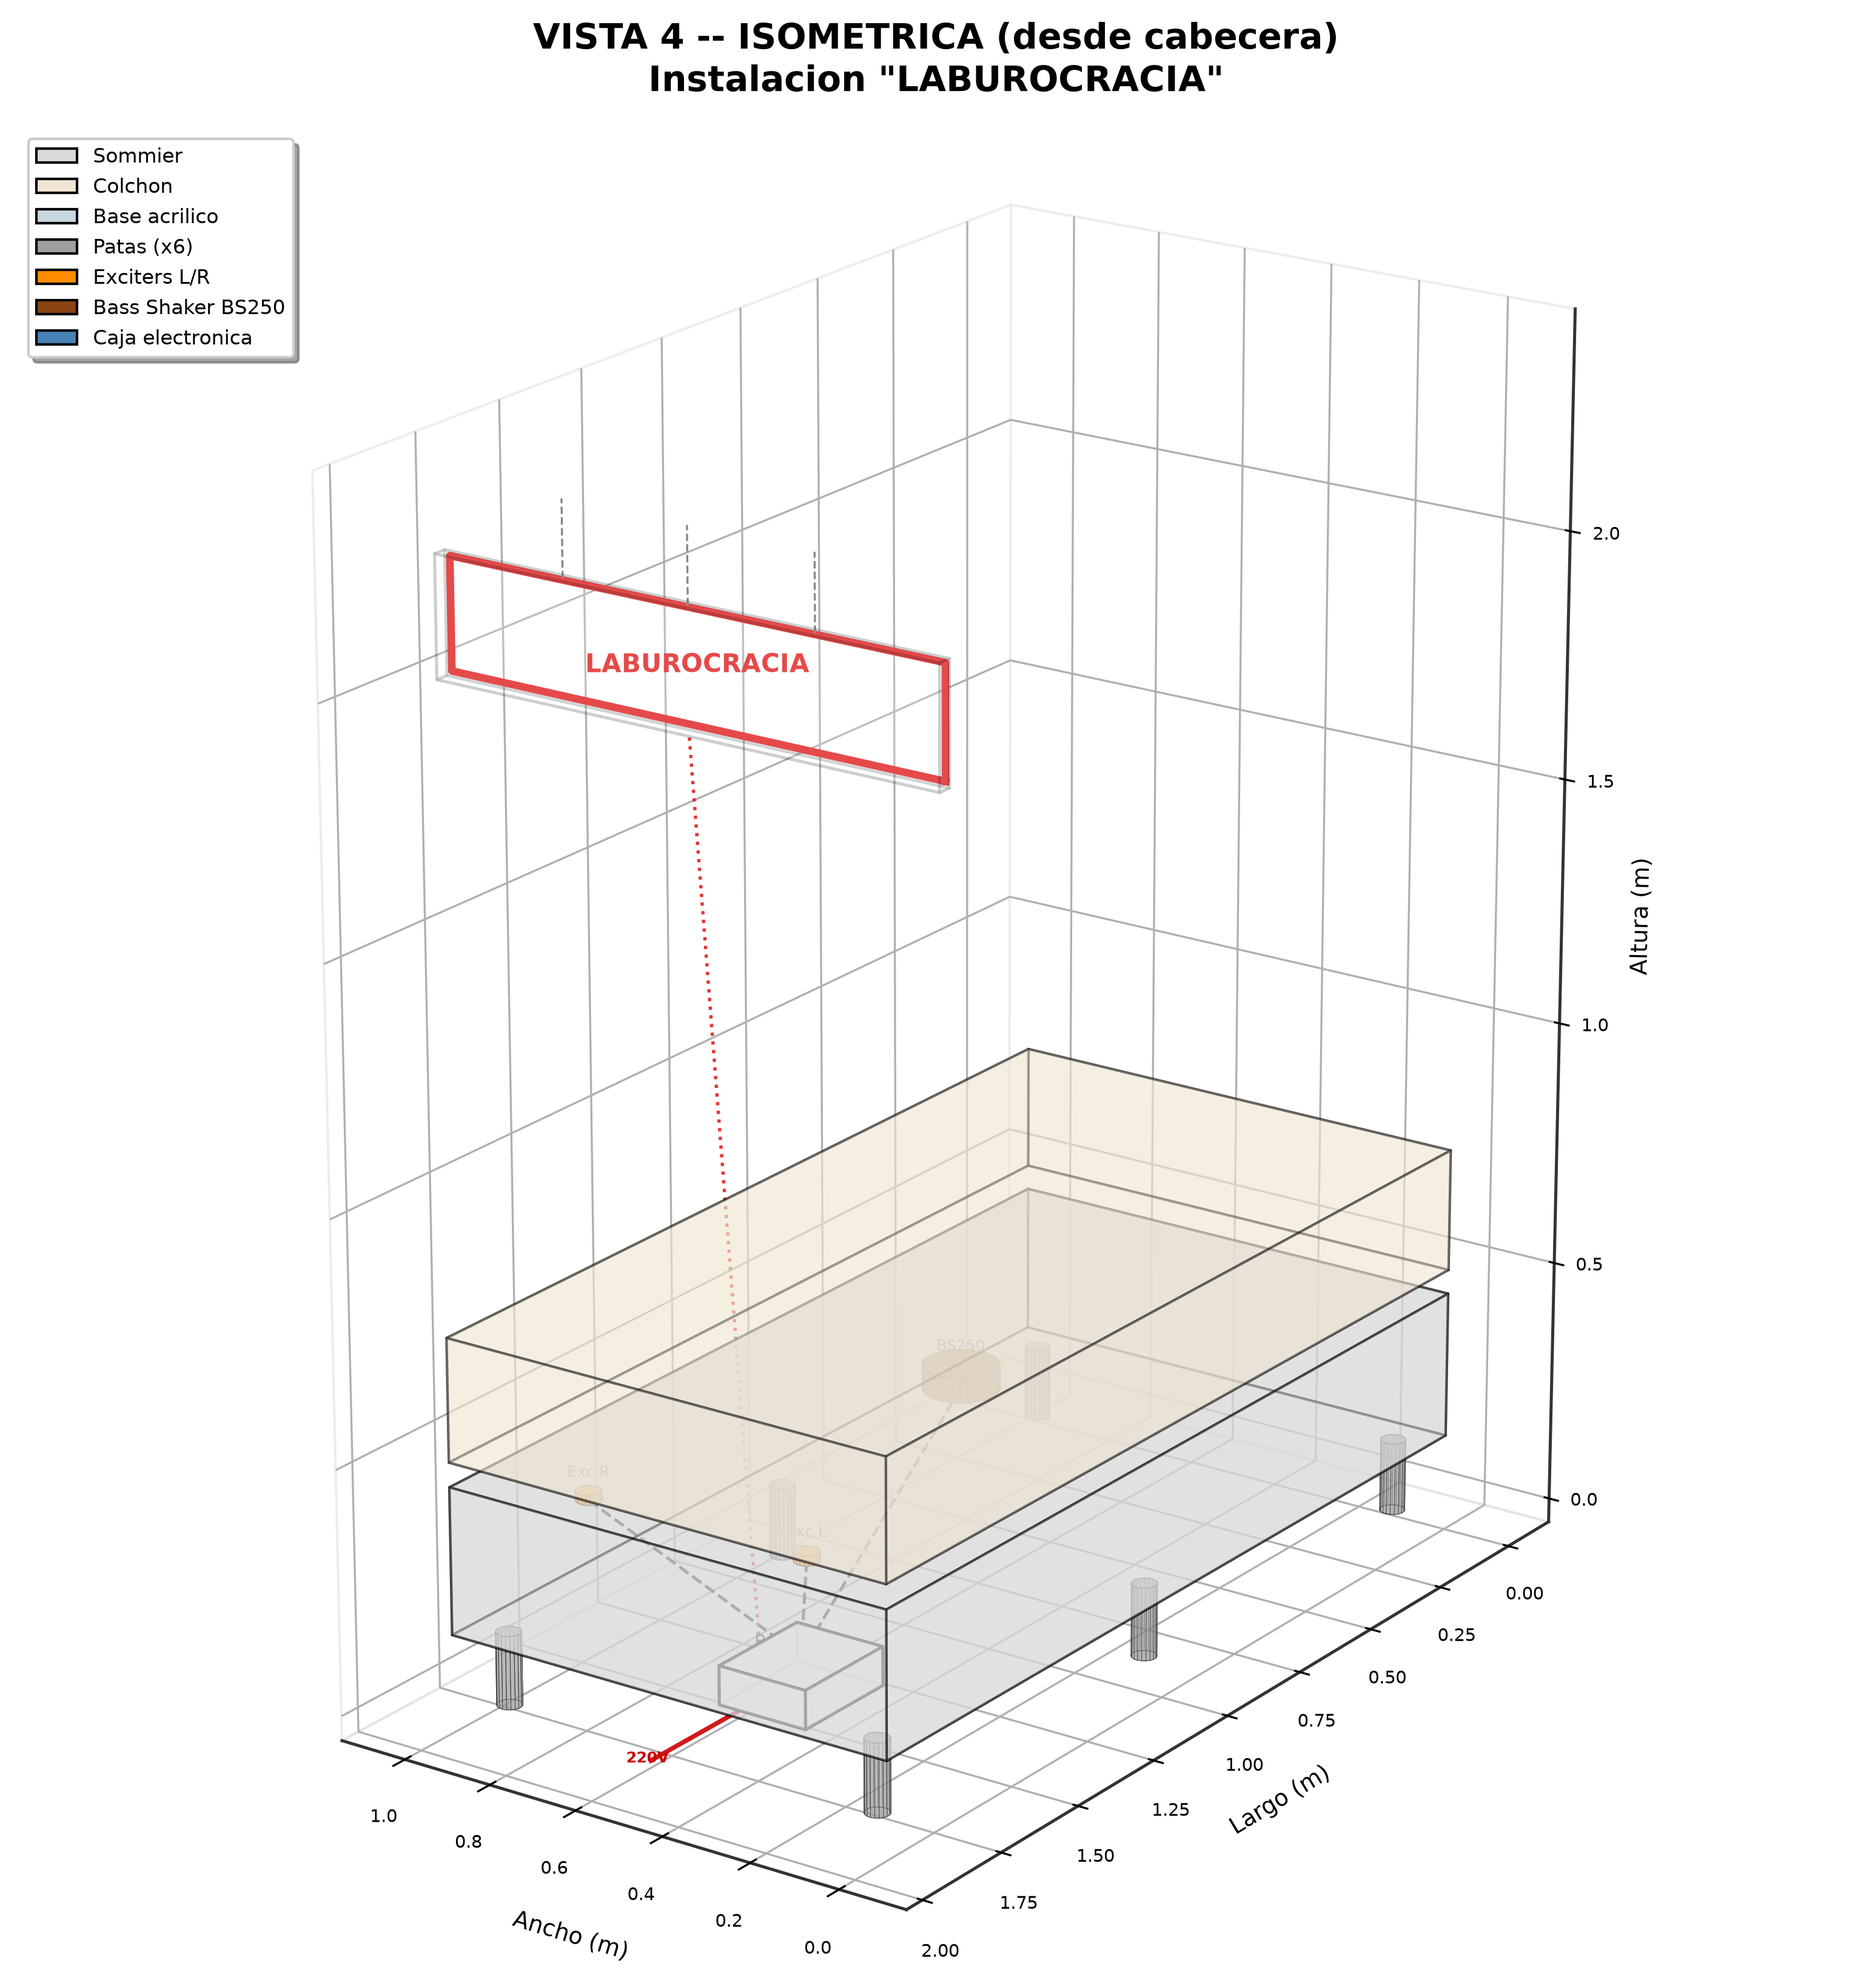
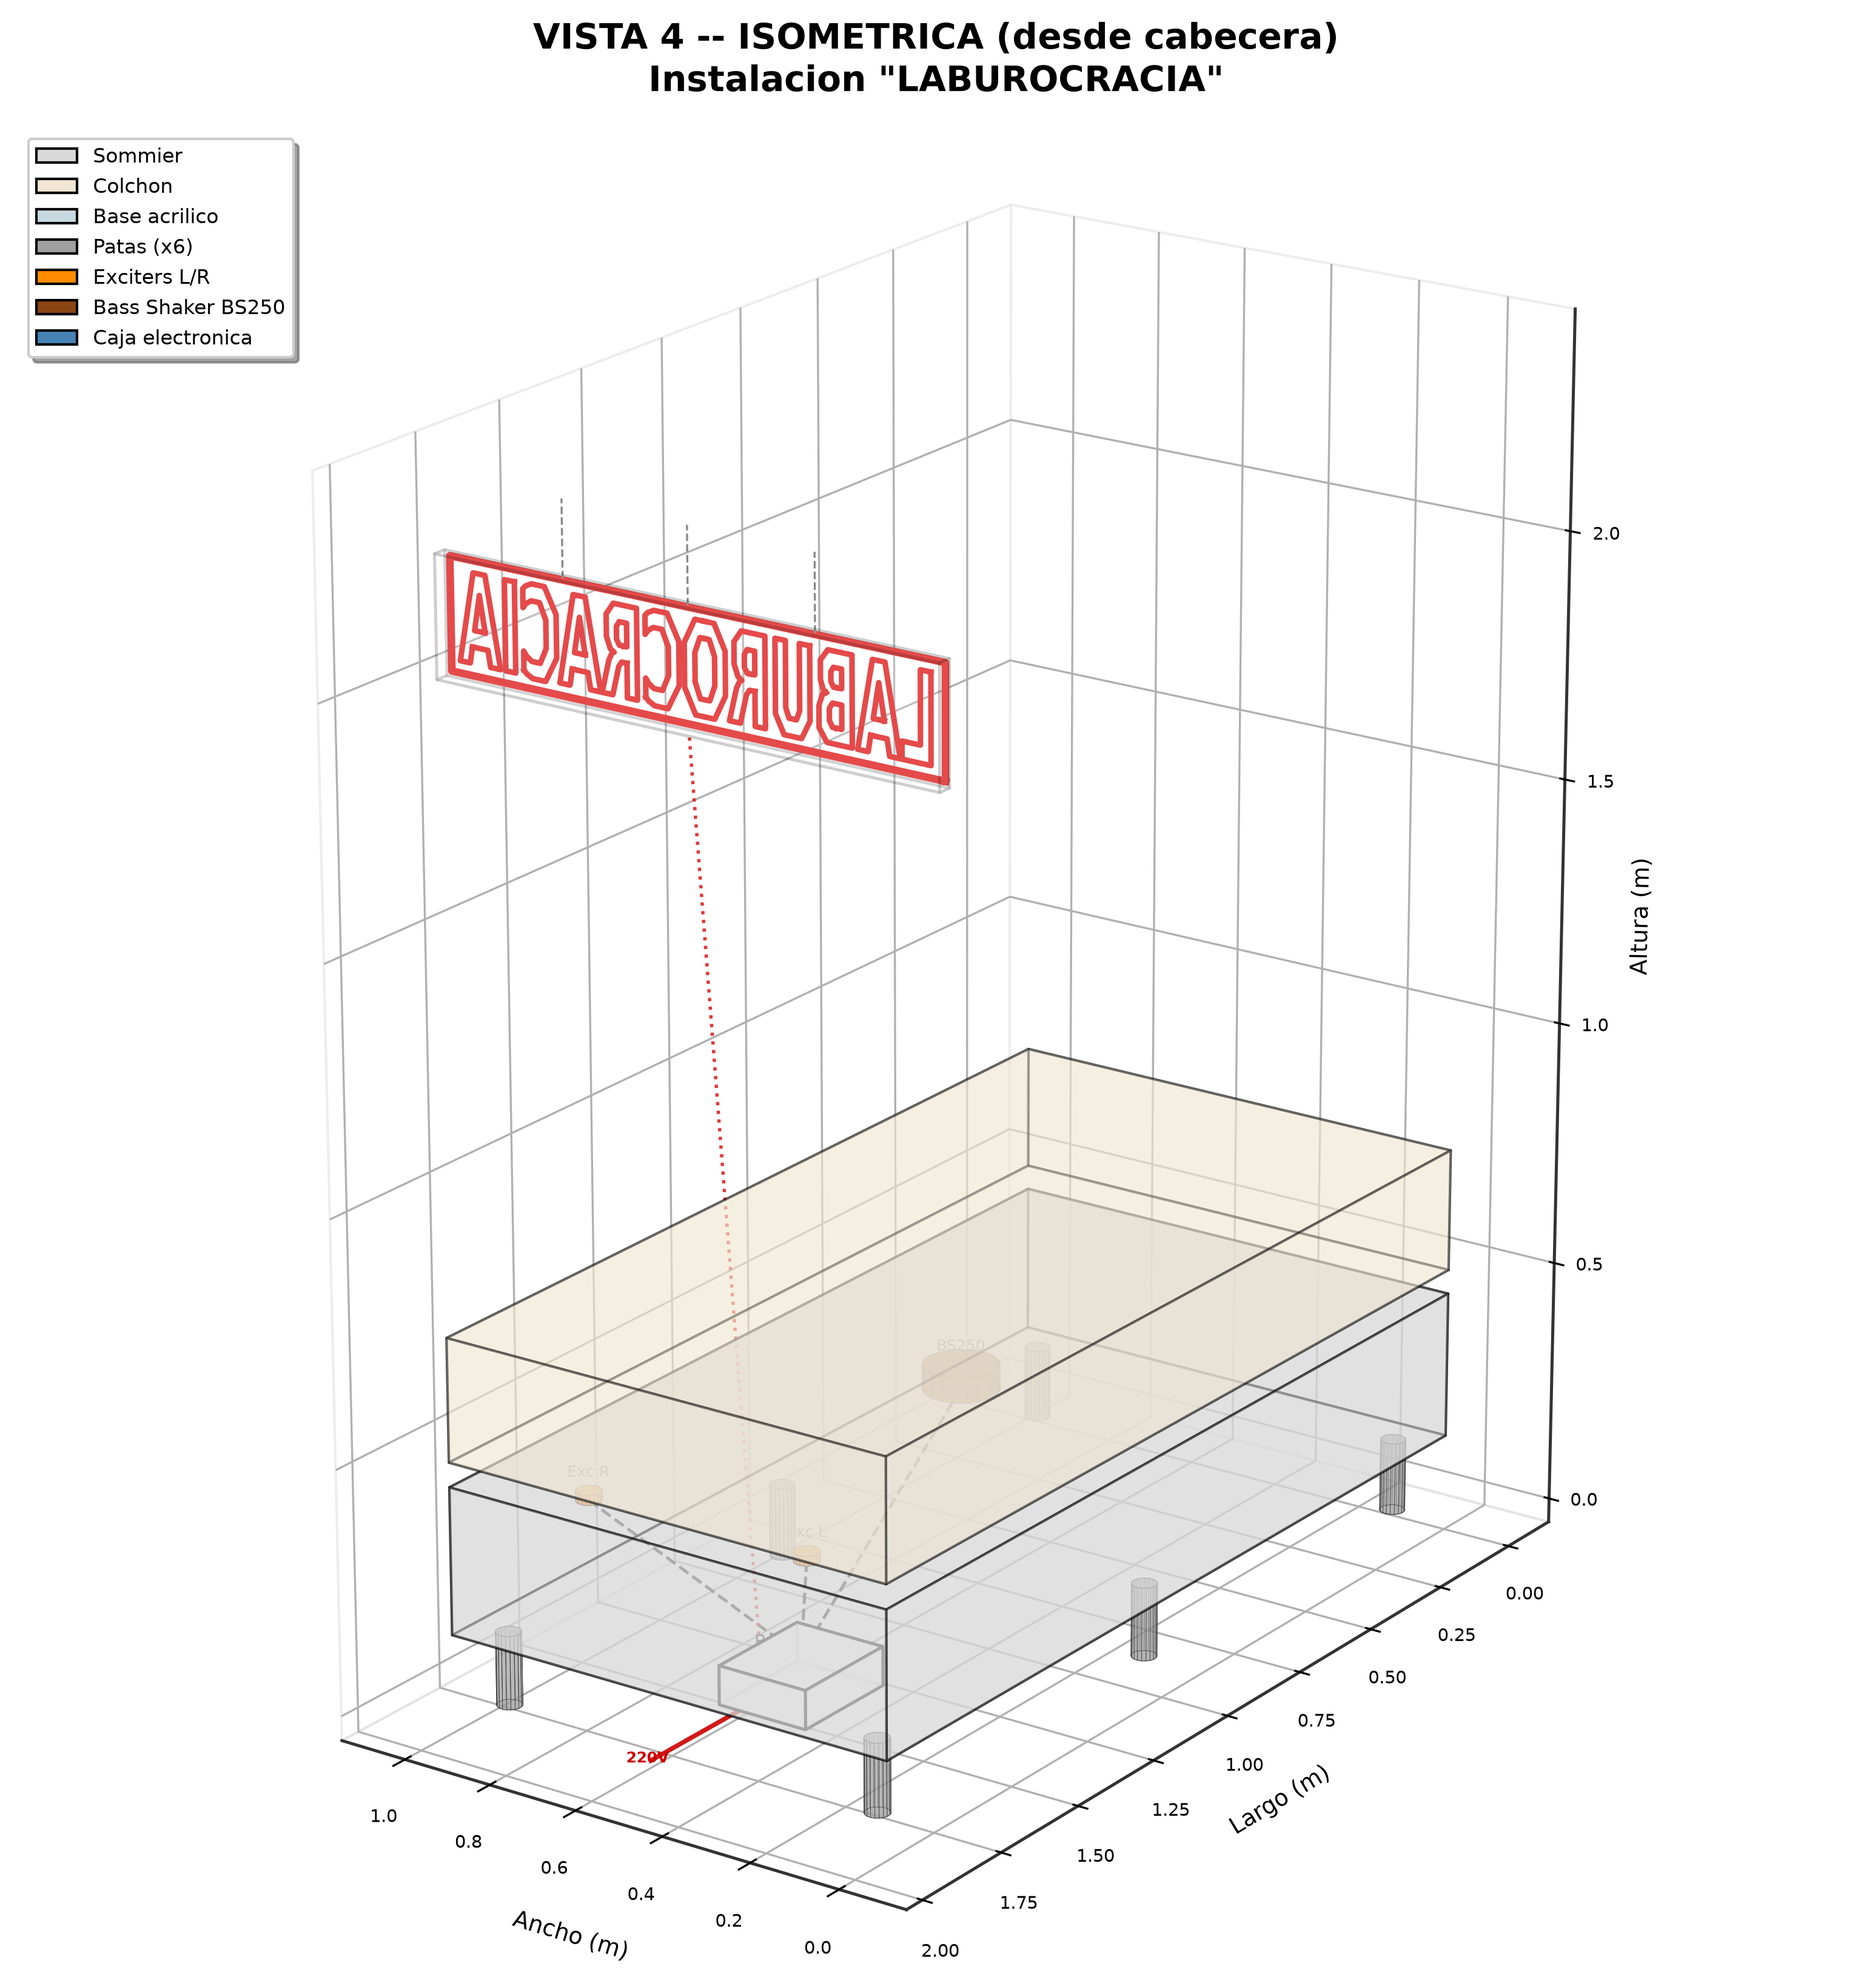
Corregir cotas de elevacion en Vista 2 y agregar texto 3D con perspectiva en cartel

Changed region(s): [[0.2488, 0.2807, 0.4976, 0.4055]]

diff --git a/planos_instalacion.py b/planos_instalacion.py
@@ -3,6 +3,8 @@ matplotlib.use('Agg')
 import matplotlib.pyplot as plt
 import matplotlib.patches as mpatches
 from matplotlib.patches import FancyBboxPatch, FancyArrowPatch
+from matplotlib.textpath import TextPath
+from matplotlib.font_manager import FontProperties
 import numpy as np
 
 # ==============================================================================
@@ -367,6 +369,8 @@ def generar_vista_planta():
                        linestyle='--', label='Colchon'),
         mpatches.Patch(facecolor='none', edgecolor='black',
                        label='Base acrilico (contorno sin relleno)'),
+        mpatches.Patch(facecolor='none', edgecolor=COLOR_PATA,
+                       linestyle='--', label='Patas (x6, proyeccion bajo sommier)'),
         mpatches.Patch(facecolor=COLOR_EXCITER, edgecolor='black',
                        alpha=0.8, label='Exciters L/R (a 10cm cabecera)'),
         mpatches.Patch(facecolor=COLOR_BASS_SHAKER, edgecolor='black',
@@ -557,25 +561,31 @@ def generar_vista_elevacion():
     dibujar_cota_vertical(ax, 0, CARTEL_ALTURA_PISO,
                           SOMMIER_LARGO + 0.05,
                           f'{CARTEL_ALTURA_PISO:.2f} m',
-                          offset=0.12, lado='derecha', fontsize=10)
+                          offset=0.10, lado='derecha', fontsize=10)
 
-    # Cota vertical: altura del sommier
-    dibujar_cota_vertical(ax, 0, SOMMIER_ALTO,
+    # Cota vertical: altura de patas (15cm)
+    dibujar_cota_vertical(ax, 0, PATA_ALTO,
+                          SOMMIER_LARGO + 0.05,
+                          f'{PATA_ALTO * 100:.0f} cm',
+                          offset=0.28, lado='derecha', fontsize=8)
+
+    # Cota vertical: altura del sommier (30cm)
+    dibujar_cota_vertical(ax, sommier_y0, sommier_y0 + SOMMIER_ALTO,
                           SOMMIER_LARGO + 0.05,
                           f'{SOMMIER_ALTO:.2f} m',
-                          offset=0.35, lado='derecha', fontsize=9)
+                          offset=0.45, lado='derecha', fontsize=9)
 
-    # Cota vertical: altura del colchón
-    dibujar_cota_vertical(ax, SOMMIER_ALTO, SOMMIER_ALTO + COLCHON_ALTO,
+    # Cota vertical: altura del colchón (25cm)
+    dibujar_cota_vertical(ax, colchon_y0, colchon_y0 + COLCHON_ALTO,
                           SOMMIER_LARGO + 0.05,
                           f'{COLCHON_ALTO:.2f} m',
-                          offset=0.55, lado='derecha', fontsize=9)
+                          offset=0.62, lado='derecha', fontsize=9)
 
-    # Cota vertical: altura total cama
+    # Cota vertical: altura total cama (75cm)
     dibujar_cota_vertical(ax, 0, altura_cama,
                           SOMMIER_LARGO + 0.05,
                           f'{altura_cama:.2f} m\n(total cama)',
-                          offset=0.75, lado='derecha', fontsize=9)
+                          offset=0.80, lado='derecha', fontsize=9)
 
     # Cota vertical: altura base acrílico (24cm)
     dibujar_cota_vertical(ax, base_y0, base_y0 + BASE_ALTO,
@@ -721,6 +731,55 @@ def dibujar_cilindro(ax, cx, cy, z_base, radio, altura, color,
                 ha='center', va='bottom', fontsize=6, color='#333333')
 
 
+def dibujar_texto_3d_en_plano(ax, texto, x0, y0, z0, ancho, alto, color=COLOR_CARTEL_NEON, lw=2.0):
+    """Dibuja un texto en 3D proyectado en el plano vertical X-Z a profundidad Y0, ocupando (ancho x alto)."""
+    tp = TextPath((0, 0), texto, size=1.0, prop=FontProperties(family='sans-serif', weight='bold'))
+    vertices = tp.vertices
+    codes = tp.codes
+
+    vx = vertices[:, 0]
+    vz = vertices[:, 1]
+
+    min_x, max_x = vx.min(), vx.max()
+    min_z, max_z = vz.min(), vz.max()
+
+    span_x = max_x - min_x if max_x > min_x else 1.0
+    span_z = max_z - min_z if max_z > min_z else 1.0
+
+    # Margen sutil de 2cm para encuadre dentro del tubo de neón
+    pad_x = 0.02
+    pad_z = 0.02
+    target_x0 = x0 + pad_x
+    target_ancho = max(0.01, ancho - 2 * pad_x)
+    target_z0 = z0 + pad_z
+    target_alto = max(0.01, alto - 2 * pad_z)
+
+    x_3d = target_x0 + (vx - min_x) / span_x * target_ancho
+    z_3d = target_z0 + (vz - min_z) / span_z * target_alto
+    y_3d = np.full_like(x_3d, y0)
+
+    curr_x, curr_y, curr_z = [], [], []
+    for (x, y, z), code in zip(zip(x_3d, y_3d, z_3d), codes):
+        if code == TextPath.MOVETO:
+            if len(curr_x) > 1:
+                ax.plot(curr_x, curr_y, curr_z, color=color, linewidth=lw)
+            curr_x, curr_y, curr_z = [x], [y], [z]
+        elif code in (TextPath.LINETO, TextPath.CURVE3, TextPath.CURVE4):
+            curr_x.append(x)
+            curr_y.append(y)
+            curr_z.append(z)
+        elif code == TextPath.CLOSEPOLY:
+            if len(curr_x) > 1:
+                curr_x.append(curr_x[0])
+                curr_y.append(curr_y[0])
+                curr_z.append(curr_z[0])
+                ax.plot(curr_x, curr_y, curr_z, color=color, linewidth=lw)
+            curr_x, curr_y, curr_z = [], [], []
+
+    if len(curr_x) > 1:
+        ax.plot(curr_x, curr_y, curr_z, color=color, linewidth=lw)
+
+
 def posiciones_patas():
     """Retorna las posiciones (cx, cy) de las 6 patas del sommier."""
     margen = 0.05  # distancia del borde
@@ -824,10 +883,9 @@ def dibujar_componentes_3d(ax):
     ax.plot(neon_pts_x, neon_pts_y, neon_pts_z,
             color=COLOR_CARTEL_NEON, linewidth=3.0)
 
-    # Texto LABUROCRACIA ocupando casi todo el cartel en rojo neon
-    ax.text(SOMMIER_ANCHO/2, frente_neon_y - 0.01, cartel_z + BASE_ALTO/2,
-            'LABUROCRACIA', ha='center', va='center',
-            fontsize=10, color=COLOR_CARTEL_NEON, fontweight='bold')
+    # Texto LABUROCRACIA proyectado en 3D con perspectiva real ocupando el cartel
+    dibujar_texto_3d_en_plano(ax, 'LABUROCRACIA', neon_x, frente_neon_y, neon_z,
+                              CARTEL_ANCHO, CARTEL_ALTO, color=COLOR_CARTEL_NEON, lw=2.2)
 
     # Lineas de cuelgue
     techo_z = cartel_z + BASE_ALTO + 0.15
